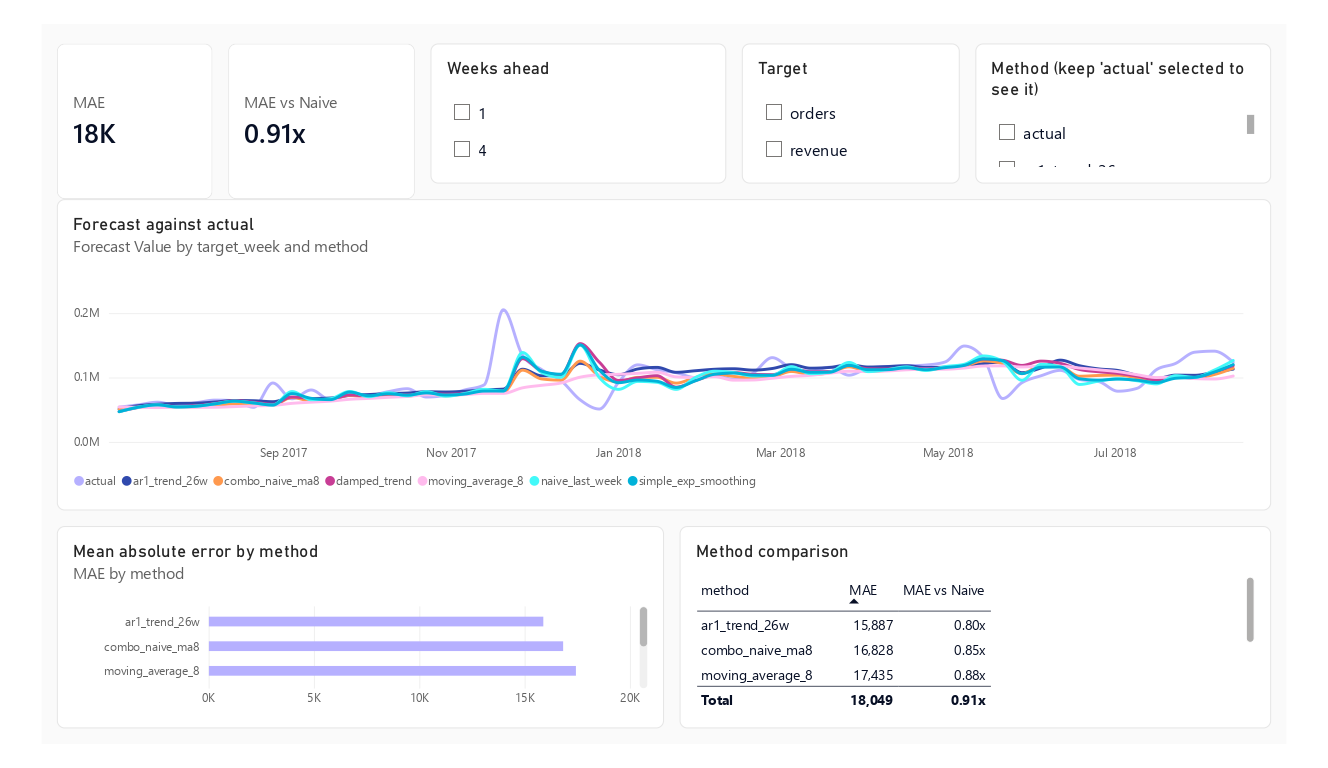
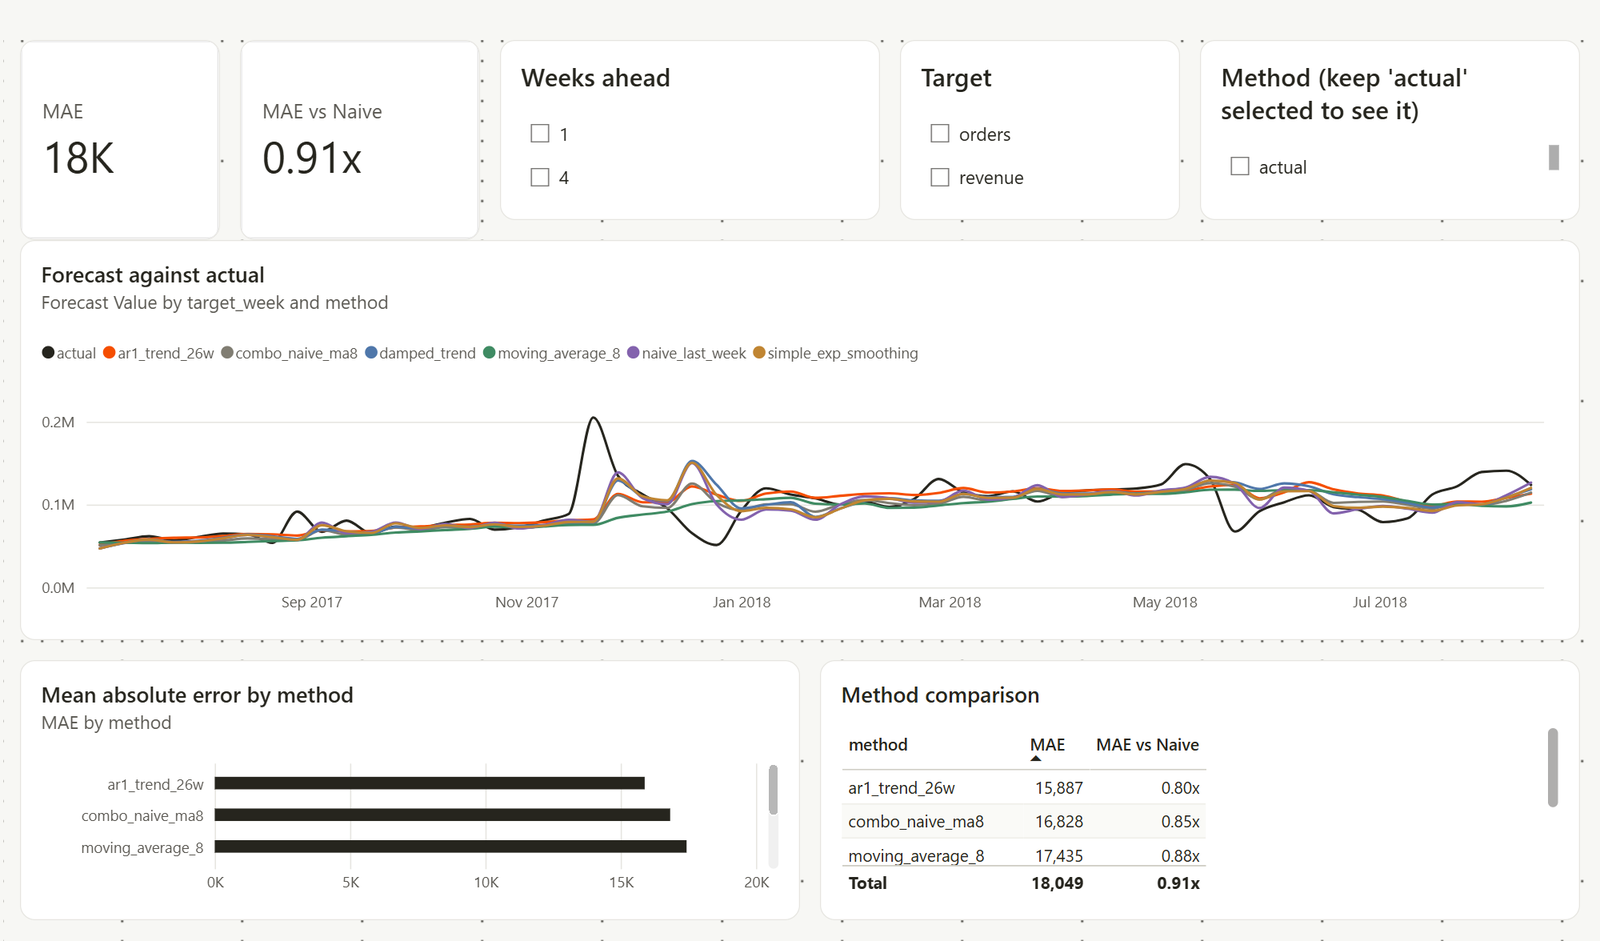
docs: update powerbi README with new architecture and Snowflake integration details

diff --git a/powerbi/README.md b/powerbi/README.md
@@ -1,8 +1,9 @@
 # Power BI project
 
-A five-page dashboard over the local warehouse: overview, sales overview, delivery and reviews, late-delivery risk, weekly forecast.
-It is delivered as a Power BI Project (`RetailAnalytics.pbip`), built from the same definition as the two HTML documents
-in [docs/powerbi/](../docs/powerbi/):
+A five-page dashboard over the Olist data: overview, sales, delivery and reviews, late-delivery risk, weekly forecast.
+It is delivered as a Power BI Project (`RetailAnalytics.pbip`) that reads the exported files, plus a generated, git-ignored
+copy (`powerbi_snowflake/`) that reads Snowflake instead (see [Use it with Snowflake](#use-it-with-snowflake)). The project was
+first specified and pictured in two HTML documents built from the same definition, in [docs/powerbi/](../docs/powerbi/):
 
 | File | What it is |
 |---|---|
@@ -12,29 +13,41 @@ in [docs/powerbi/](../docs/powerbi/):
 
 ## Screenshots
 
-The four pages, rendered from the mock-up with the same numbers as the dashboard:
+The five pages as they render in Power BI Desktop with the theme below, on data read from Snowflake (2026-11-25). The order
+ids in the risk table are replaced by grey bars in the image.
+
+![Overview](images/overview.png)
+
+*Overview: net revenue, net orders, average order value, late deliveries, average review score and one-time customers, then net revenue and late rate by month (the late rate in orange), net revenue by customer state and review score by how late the order arrived.*
 
 ![Sales overview](images/sales.png)
 
-*Sales overview — net revenue, net orders, average order value, freight % of revenue and buying customers, with revenue by month, category and customer state.*
+*Sales overview: net revenue, net orders, average order value, freight % of revenue and buying customers, with revenue by month, category and customer state, and category, month and state filters.*
 
 ![Delivery and reviews](images/delivery.png)
 
-*Delivery and reviews — late rate, median delivery days, average review score, share promised under 20 days, review score by delay bucket and delivery by customer state.*
+*Delivery and reviews: late rate, median delivery days, average review score, share promised under 20 days, late rate by month, review score by delay bucket and delivery by customer state.*
 
 ![Late-delivery risk](images/risk.png)
 
-*Late-delivery risk — lift and recall when flagging the riskiest X% of orders, lift by month, the riskiest orders and late rate by state.*
+*Late-delivery risk: lift and recall when flagging the riskiest X% of orders, lift by month, the riskiest orders and late rate by state.*
 
 ![Weekly forecast](images/forecast.png)
 
-*Weekly forecast — forecast against actual by method, mean absolute error by method and the method comparison.*
+*Weekly forecast: forecast against actual by method, mean absolute error by method and the method comparison.*
 
-**Status: opens and loads in Power BI Desktop.** Two first-open problems were found and fixed (see below), and the committed files are now the ones Desktop saved, so **Desktop owns the report and model from here**: edit them there.  The project was generated on a machine without Desktop. On the first open Desktop rejected it with "The 'Forecast' measure cannot be created because a column with the same name already exists" (Power BI compares names ignoring case, and the table had a column `forecast`). The measures `Forecast` and `Actual` are now `Forecast Value` and `Actual Value`, and a test checks names ignoring case. Desktop reports one model error at a time, so another may still appear; the report pages have not been confirmed to load either.
-What was checked instead: every JSON file validates against Microsoft's published schemas, every table, column and measure
-named anywhere exists, and the exported data reproduces the warehouse figures (`tests/test_powerbi_project.py`,
-`tests/test_powerbi_export.py`). That does not prove Desktop will accept every file. If it shows an error on first open,
-send the exact message and the file it names.
+**Status: opens and loads in Power BI Desktop, from the exported files and from Snowflake.** The project was generated on a machine
+without Desktop and needed two fixes on its first open: Desktop rejected it with "The 'Forecast' measure cannot be created because a
+column with the same name already exists" (Power BI compares names ignoring case), so the measures `Forecast` and `Actual` are now
+`Forecast Value` and `Actual Value` and a test checks names ignoring case; and an empty key row in the date table (see "If the first
+refresh fails"). The committed files are now the ones Desktop saved, so **Desktop owns the report and model from here**: edit them
+there. On 2026-11-25 the Snowflake copy was opened and signed in, all five pages loaded, and the headline figures on them (R$ 13.49M
+net revenue, 98K net orders, 8.1% late) agree with the first-open checklist.
+
+Before Desktop was available the checks were: every JSON file of the generated project validates against Microsoft's published
+schemas, every table, column and measure named anywhere exists, and the exported data reproduces the warehouse figures
+(`tests/test_powerbi_project.py`, `tests/test_powerbi_export.py`). Those do not prove Desktop accepts every file; if it shows an error
+on open, send the exact message and the file it names.
 
 ## Theme and the Overview page (2026-11-25)
 
@@ -55,6 +68,17 @@ in `definition/report.json`; Desktop caches themes by file name. `powerbi-report
 checks the result. Two errors remain that were there before: `.pbip` and `definition.pbir` have no `$schema` line (Desktop
 wrote them that way).
 
+## Use it with Snowflake
+
+The Snowflake copy is generated, git-ignored and holds your account address, so it is never committed.
+
+1. Write the copy: `.\.venv\Scripts\python.exe powerbi\snowflake\apply_snowflake_source.py` (it refuses to overwrite an existing copy; `--force` replaces it and resets the parameters below).
+2. Open `powerbi_snowflake/RetailAnalytics.pbip` and set two parameters (*Home > Transform data > Manage parameters*): `SnowflakeServer` is your account address, `<account>.snowflakecomputing.com`, not the database name (`RETAIL_OLIST`) and not the repository name; `SnowflakeWarehouse` is `RETAIL_WH`.
+3. Sign in with a Snowflake user whose default role is `RETAIL_REPORTER`. If sign-in fails with `Failed to parse PEM block containing the private key`, type the user name and password again in *File > Options and settings > Data source settings*, for both the current file and the global permissions.
+4. Change the design in `powerbi/`, commit it there, then regenerate the copy. A change made only in the copy is not in Git.
+
+The full guide, with the table-to-view mapping and what is still unverified, is [docs/migration/POWERBI_SWITCH_GUIDE.md](../docs/migration/POWERBI_SWITCH_GUIDE.md).
+
 ## Open it
 
 1. Install **Power BI Desktop** (free, Windows), a recent version. If it does not offer to open `.pbip` files, enable *File > Options and settings > Options > Preview features > Power BI Project (.pbip) save option*, and the PBIR enhanced report format if listed, then restart.
@@ -73,8 +97,8 @@ wrote them that way).
 
 ## Optional
 
-- The colour theme is in `theme/RetailAnalytics.theme.json` (*View > Themes > Browse for themes*). The report already uses the
-  built-in base theme, so this is only for matching the project palette.
+- The report carries its own theme (see "Theme and the Overview page"). `theme/RetailAnalytics.theme.json` is the original optional
+  palette written by the generator; the report does not use it.
 - Nothing in the project holds credentials. The only machine-specific setting is the `DataFolder` path, which Desktop keeps in
   the model and which is not committed (the committed value is a placeholder).
 
@@ -101,4 +125,5 @@ Power BI reports the first failing table and marks the rest "Load was cancelled 
 - Row-level **review comments are not exported**; only the score and whether a comment exists.
 - The risk page uses out-of-time scores for 2018-03 to 2018-08 only (the test months of the model); other months show no scores.
 - Scores are for ranking, not probabilities (see `docs/ml/MODEL_CARD.md`).
-- Measures were written to mirror the SQL, but DAX results have not been computed here; the checklist is how to confirm them.
+- The measures mirror the SQL. The headline figures on the Snowflake-backed pages agree with the first-open checklist; the rest of the checklist was compared by the owner, and no test in this repository computes DAX.
+- The late-rate charts start with a 100% spike: the first month (2016-09) has only a few orders and months under 500 orders are not filtered out.
